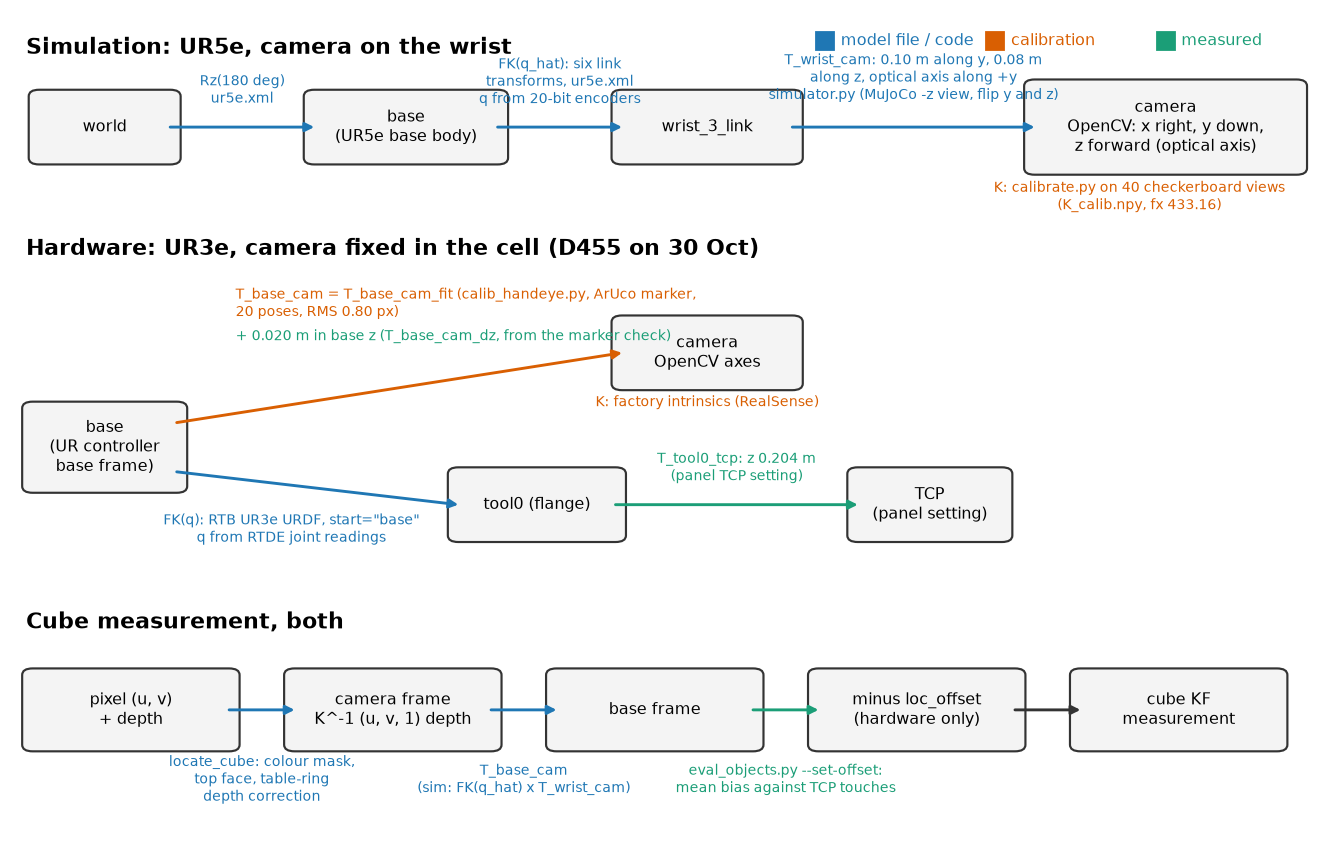
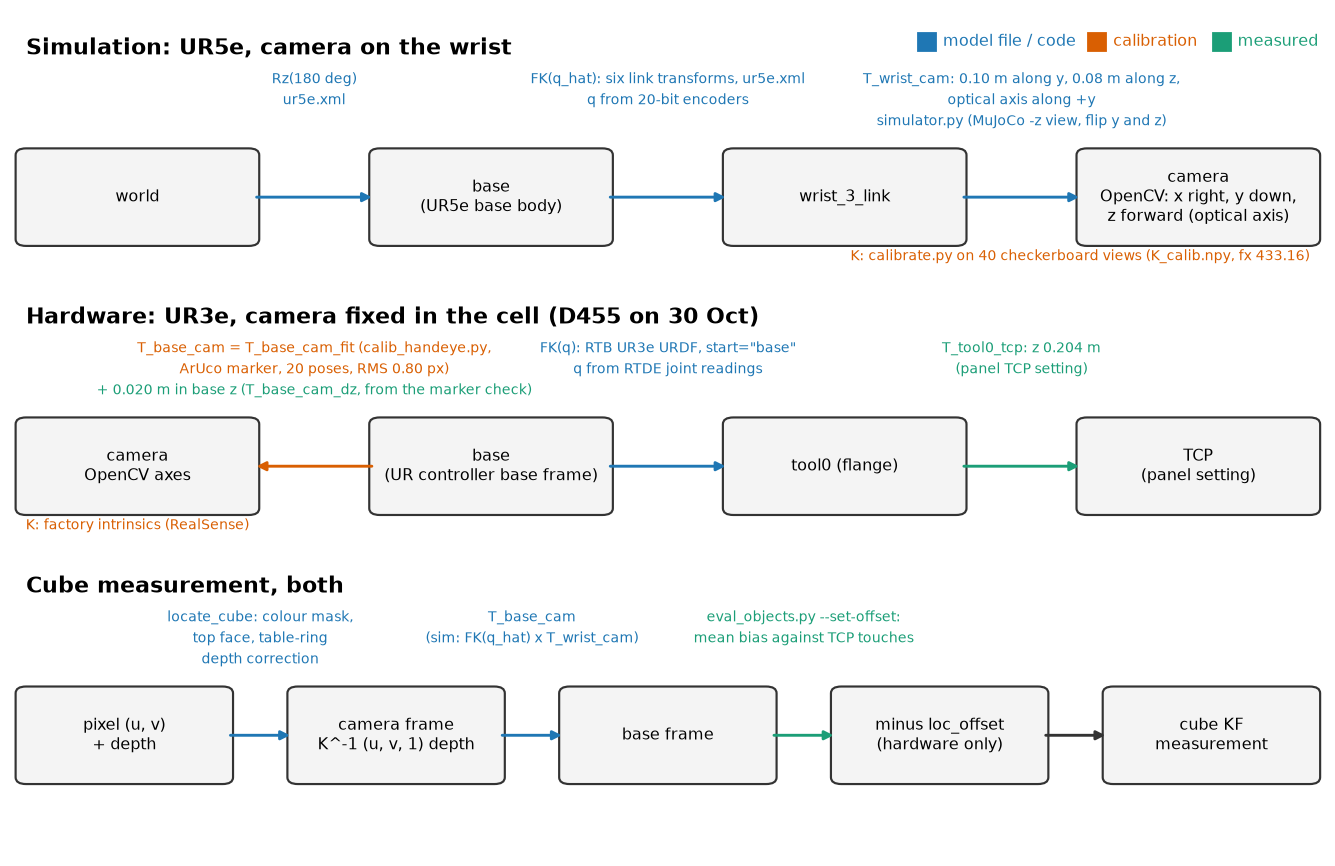
Page: redraw the frames figure so no label overlaps an arrow or box

diff --git a/docs/make_diagrams.py b/docs/make_diagrams.py
@@ -27,60 +27,56 @@ def arrow(ax, a, b, label="", color="#333333", size=8, off=(0, 0.035), ha="cente
 
 
 def frames():
-    fig, ax = plt.subplots(figsize=(13, 8.2))
+    fig, ax = plt.subplots(figsize=(13, 8.4))
     ax.set_xlim(0, 1)
     ax.set_ylim(0, 1)
     ax.axis("off")
+    m, c, g = SRC["model"], SRC["calibration"], SRC["measured"]
 
-    ax.text(0.01, 0.97, "Simulation: UR5e, camera on the wrist", fontsize=12, weight="bold", va="top")
-    y = 0.86
-    xs = [0.07, 0.30, 0.53, 0.88]
-    box(ax, xs[0], y, "world", w=0.1)
-    box(ax, xs[1], y, "base\n(UR5e base body)", w=0.14)
-    box(ax, xs[2], y, "wrist_3_link", w=0.13)
-    box(ax, xs[3], y, "camera\nOpenCV: x right, y down,\nz forward (optical axis)", w=0.2, h=0.1)
-    arrow(ax, (xs[0] + 0.05, y), (xs[1] - 0.07, y), "Rz(180 deg)\nur5e.xml", SRC["model"], off=(0, 0.045))
-    arrow(ax, (xs[1] + 0.07, y), (xs[2] - 0.065, y), "FK(q_hat): six link\ntransforms, ur5e.xml\nq from 20-bit encoders",
-          SRC["model"], off=(0, 0.055))
-    arrow(ax, (xs[2] + 0.065, y), (xs[3] - 0.1, y), "T_wrist_cam: 0.10 m along y, 0.08 m\nalong z, optical axis "
-          "along +y\nsimulator.py (MuJoCo -z view, flip y and z)", SRC["model"], off=(0, 0.06))
-    ax.text(xs[3] - 0.02, y - 0.1, "K: calibrate.py on 40 checkerboard views\n(K_calib.npy, fx 433.16)", ha="center",
-            fontsize=8, color=SRC["calibration"])
+    def row(y0, title, boxes, labels, w):
+        # boxes in one line; each arrow's label sits in its own band above the boxes, so nothing overlaps
+        ax.text(0.01, y0, title, fontsize=12, weight="bold", va="top")
+        gap = (0.98 - len(boxes) * w) / (len(boxes) - 1)
+        xs = [0.01 + w / 2 + i * (w + gap) for i in range(len(boxes))]
+        yb = y0 - 0.19
+        for x, t in zip(xs, boxes):
+            box(ax, x, yb, t, w=w, h=0.1)
+        for x0, x1, (lines, back) in zip(xs, xs[1:], labels):
+            a, b = (x0 + w / 2 + 0.006, yb), (x1 - w / 2 - 0.006, yb)
+            arrow(ax, b if back else a, a if back else b, color=lines[0][1] if lines else "#333333")
+            for n, (t, col) in enumerate(lines):
+                ax.text((x0 + x1) / 2, y0 - 0.05 - 0.025 * n, t, ha="center", va="center", fontsize=8, color=col)
+        return xs, yb
 
-    ax.text(0.01, 0.725, "Hardware: UR3e, camera fixed in the cell (D455 on 30 Oct)", fontsize=12, weight="bold",
-            va="top")
-    yb, yc = 0.47, 0.585
-    box(ax, 0.07, yb, "base\n(UR controller\nbase frame)", w=0.11, h=0.095)
-    box(ax, 0.53, yc, "camera\nOpenCV axes", w=0.13)
-    box(ax, 0.40, 0.40, "tool0 (flange)", w=0.12)
-    box(ax, 0.70, 0.40, "TCP\n(panel setting)", w=0.11)
-    arrow(ax, (0.125, yb + 0.03), (0.465, yc), "", SRC["calibration"])
-    ax.text(0.17, 0.645, "T_base_cam = T_base_cam_fit (calib_handeye.py, ArUco marker,\n20 poses, RMS 0.80 px)",
-            fontsize=8, color=SRC["calibration"], ha="left", va="center")
-    ax.text(0.17, 0.605, "+ 0.020 m in base z (T_base_cam_dz, from the marker check)", fontsize=8,
-            color=SRC["measured"], ha="left", va="center")
-    ax.text(0.53, yc - 0.065, "K: factory intrinsics (RealSense)", ha="center", fontsize=8, color=SRC["calibration"])
-    arrow(ax, (0.125, yb - 0.03), (0.34, 0.40), "FK(q): RTB UR3e URDF, start=\"base\"\nq from RTDE joint readings",
-          SRC["model"], off=(-0.02, -0.05))
-    arrow(ax, (0.46, 0.40), (0.645, 0.40), "T_tool0_tcp: z 0.204 m\n(panel TCP setting)", SRC["measured"],
-          off=(0, 0.045))
+    xs, yb = row(0.97, "Simulation: UR5e, camera on the wrist",
+                 ["world", "base\n(UR5e base body)", "wrist_3_link", "camera\nOpenCV: x right, y down,\nz forward (optical axis)"],
+                 [([("Rz(180 deg)", m), ("ur5e.xml", m)], False),
+                  ([("FK(q_hat): six link transforms, ur5e.xml", m), ("q from 20-bit encoders", m)], False),
+                  ([("T_wrist_cam: 0.10 m along y, 0.08 m along z,", m), ("optical axis along +y", m),
+                    ("simulator.py (MuJoCo -z view, flip y and z)", m)], False)], 0.17)
+    ax.text(xs[3] + 0.085, yb - 0.075, "K: calibrate.py on 40 checkerboard views (K_calib.npy, fx 433.16)", ha="right",
+            fontsize=8, color=c)
 
-    ax.text(0.01, 0.27, "Cube measurement, both", fontsize=12, weight="bold", va="top")
-    yp = 0.15
-    steps = [(0.09, "pixel (u, v)\n+ depth"), (0.29, "camera frame\nK^-1 (u, v, 1) depth"), (0.49, "base frame"),
-             (0.69, "minus loc_offset\n(hardware only)"), (0.89, "cube KF\nmeasurement")]
-    for x, t in steps:
-        box(ax, x, yp, t, w=0.15, h=0.085)
-    labels = [("locate_cube: colour mask,\ntop face, table-ring\ndepth correction", SRC["model"]),
-              ("T_base_cam\n(sim: FK(q_hat) x T_wrist_cam)", SRC["model"]),
-              ("eval_objects.py --set-offset:\nmean bias against TCP touches", SRC["measured"]), ("", "#333333")]
-    for (x0, _), (x1, _), (lab, col) in zip(steps, steps[1:], labels):
-        arrow(ax, (x0 + 0.075, yp), (x1 - 0.075, yp), lab, col, off=(0, -0.085))
+    xs, yb = row(0.65, "Hardware: UR3e, camera fixed in the cell (D455 on 30 Oct)",
+                 ["camera\nOpenCV axes", "base\n(UR controller base frame)", "tool0 (flange)", "TCP\n(panel setting)"],
+                 [([("T_base_cam = T_base_cam_fit (calib_handeye.py,", c), ("ArUco marker, 20 poses, RMS 0.80 px)", c),
+                    ("+ 0.020 m in base z (T_base_cam_dz, from the marker check)", g)], True),
+                  ([("FK(q): RTB UR3e URDF, start=\"base\"", m), ("q from RTDE joint readings", m)], False),
+                  ([("T_tool0_tcp: z 0.204 m", g), ("(panel TCP setting)", g)], False)], 0.17)
+    ax.text(xs[0], yb - 0.075, "K: factory intrinsics (RealSense)", ha="center", fontsize=8, color=c)
 
-    for i, (name, col) in enumerate(SRC.items()):
-        ax.plot([0.62 + i * 0.13], [0.965], "s", color=col, ms=10)
-        ax.text(0.632 + i * 0.13, 0.965, {"model": "model file / code", "calibration": "calibration",
-                                          "measured": "measured"}[name], fontsize=9, va="center", color=col)
+    row(0.33, "Cube measurement, both",
+        ["pixel (u, v)\n+ depth", "camera frame\nK^-1 (u, v, 1) depth", "base frame", "minus loc_offset\n(hardware only)",
+         "cube KF\nmeasurement"],
+        [([("locate_cube: colour mask,", m), ("top face, table-ring", m), ("depth correction", m)], False),
+         ([("T_base_cam", m), ("(sim: FK(q_hat) x T_wrist_cam)", m)], False),
+         ([("eval_objects.py --set-offset:", g), ("mean bias against TCP touches", g)], False),
+         ([], False)], 0.15)
+
+    for x, (name, col) in zip([0.698, 0.828, 0.923], SRC.items()):
+        ax.plot([x], [0.965], "s", color=col, ms=10)
+        ax.text(x + 0.012, 0.965, {"model": "model file / code", "calibration": "calibration",
+                                   "measured": "measured"}[name], fontsize=9, va="center", color=col)
     fig.savefig(OUT / "frames.png", dpi=130, bbox_inches="tight")
     plt.close(fig)
 
